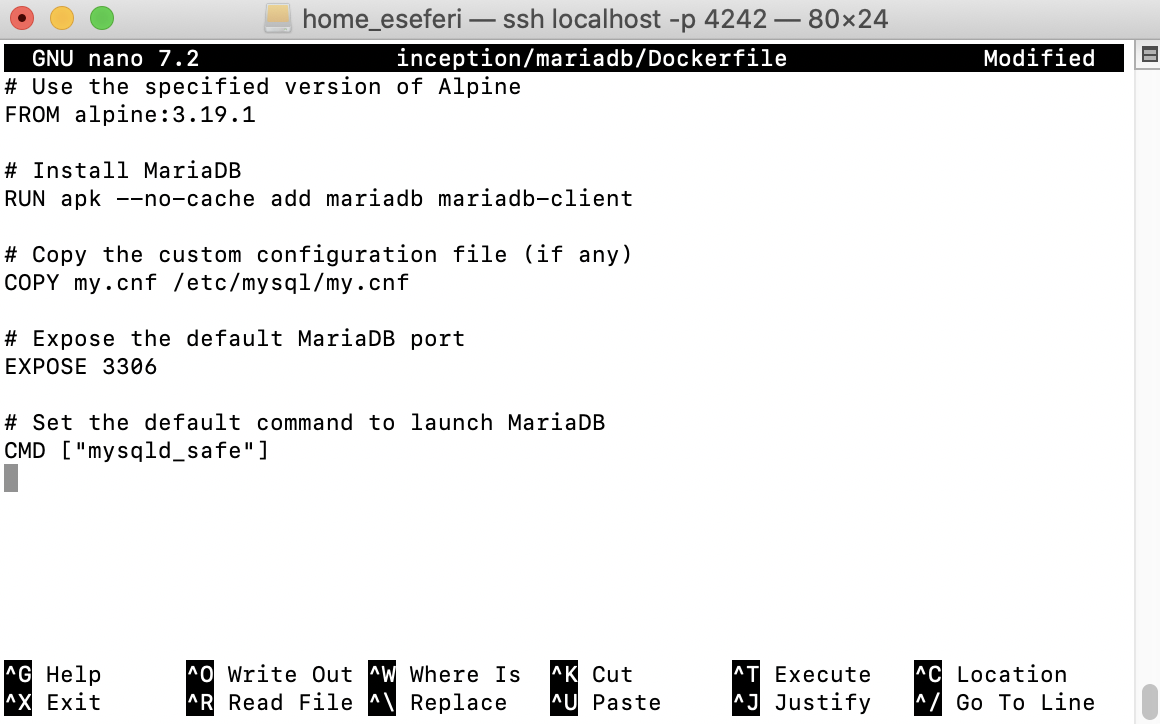
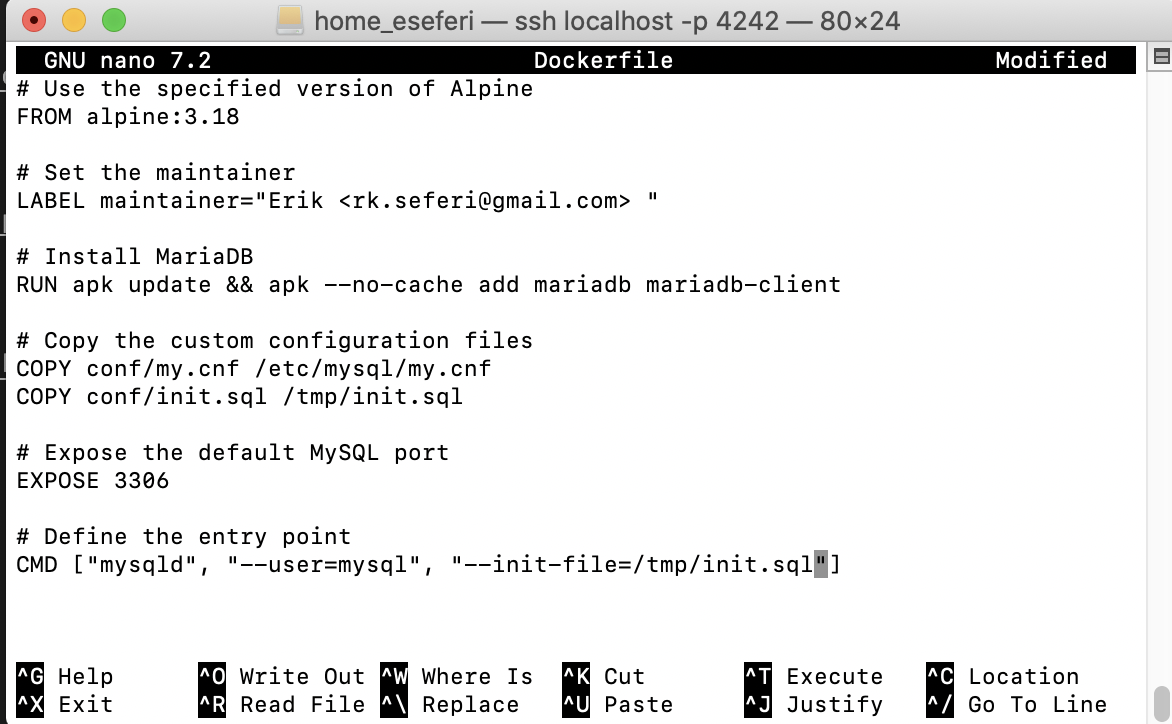
putting some research in the guide

diff --git a/README.md b/README.md
@@ -335,6 +335,46 @@ Now I suggest to you before continuing to the next step to research a little bit
 
 # STEP2: Install Docker and Docker Compose
 
+A little bit of theory now:
+
+### Docker
+
+Docker is a platform as a service (PaaS) tool that utilizes OS-level virtualization to deploy software in containers. These containers are lightweight and allow applications to operate efficiently in diverse environments, isolated from one another.
+
+### Background
+
+Containers encapsulate their own software, libraries, and configuration files, communicating through well-defined channels while sharing the services of a single operating system kernel. This shared kernel reduces resource usage compared to traditional virtual machines.
+
+### Operation
+
+Docker utilizes various interfaces to access Linux kernel virtualization features. It packages applications and dependencies into virtual containers that can run on Linux, Windows, or macOS, enabling flexibility in deployment locations. Resource isolation features like cgroups and kernel namespaces allow containers to run within a single Linux instance.
+
+### Components
+
+The Docker software offering comprises:
+
+1. Software
+Docker daemon (dockerd) manages containers and handles container objects, while the Docker client (docker) provides a command-line interface (CLI) for user interaction.
+
+2. Objects
+Docker objects include images, containers, and services, providing a standardized environment for running applications.
+
+		Docker containers are encapsulated environments for running applications, managed via the Docker API or CLI.
+
+		Docker images are read-only templates used to build containers.
+
+		Docker services enable scaling across multiple Docker daemons, forming a swarm of cooperating daemons.
+
+		Registries: Docker registries store and distribute Docker images, with Docker Hub being the primary public registry. Registries allow for image download ("pull") and upload ("push") operations.
+
+### Tools
+
+1. Docker Compose: Defines and runs multi-container Docker applications using YAML configuration files. It simplifies container creation and startup processes.
+
+2. Docker Swarm: Provides native clustering functionality for Docker containers, turning multiple Docker engines into a single virtual Docker engine.
+
+3. Docker Volume: Facilitates data management for Docker containers, enabling data persistence and sharing between containers.
+
 First update Alpine, if you downloaded and using sudo you can use sudo instead of doas
 
 ![Update and upgrade apk](photos/InstallDocker/upgradeapk.png)
@@ -394,6 +434,149 @@ Naming Docker Images and Services:
 
 Each Docker image must have the same name as its corresponding service. For example, if you have a service named nginx, the Docker image for that service should also be named nginx.
 
+
+Based on project guidelines, it's better to set up MariaDB first before setting up NGINX and the other services. Here's why:
+
+#### Dependency Order
+
+MariaDB is a fundamental component as it serves as the database backend for your WordPress website. Therefore, it makes sense to set up the database first before configuring other services that rely on it.
+
+#### Data Volume
+
+You need to set up volumes for the WordPress database and website files. Since MariaDB manages the database, you should create the volume for the database first to ensure it's properly configured and accessible before configuring the volume for the website files.
+
+#### Configuration Interdependencies
+
+Configuring MariaDB may require specific settings or initializations that could be referenced or utilized by other services like NGINX or WordPress. By setting up MariaDB first, you ensure that these configurations are in place before configuring other services.
+
+Therefore, the suggested order would be:
+
+1. Set up MariaDB.
+2. Set up NGINX.
+3. Set up WordPress and other services (if applicable), ensuring they are configured to interact with MariaDB as needed.
+4. Configure volumes for the database and website files accordingly.
+
+## Some Research
+
+<h3>What is Docker file?</h3>
+<p>
+	The Dockerfile employs DSL (Domain Specific Language) and comprises directives for building a Docker image. It delineates the steps to efficiently craft an image. When developing your application, ensure the Dockerfile's sequence aligns with the Docker daemon's execution, as it processes instructions sequentially, from top to bottom
+</p>
+<h3>What is Docker Image?</h3>
+<p>
+	An artifact representing multiple layers and serving as a lightweight, self-contained executable package is referred to as a Docker image. It encapsulates all necessary components to execute software, encompassing the code, runtime, libraries, environment variables, and configuration files.
+</p>
+<h3>What is Docker Container?</h3>
+<p>
+	A container is a live instance of a Docker image at runtime. It operates as an isolated environment, containing all the dependencies and configurations required for the application it hosts. Containers streamline both development and deployment processes, enhancing efficiency by ensuring the application runs independently from the host environment.
+</p>
+
+### Dockerfile Commands/Instructions
+
+1. **FROM**
+	- Represents the base image(OS), which is the command that is executed first before any other commands.
+	- **Syntax:**
+		```
+		FROM <ImageName>
+		```
+	- **Example:** 
+		The base image will be alpine: 3.18 Operating System.
+		```
+		FROM alpine: 3.18
+		```
+
+2. **COPY**
+	- The COPY command in Dockerfile is utilized to copy files or directories from the host machine into the Docker image during the build process.
+	- **Syntax:**
+		```
+		COPY <Source> <Destination>
+		```
+	- **Example:**
+		Let's say we have a custom configuration file called "nginx.conf" located in the "conf" directory of our project. We want to include this configuration file into our NGINX Docker image:
+		```
+		COPY conf/nginx.conf /etc/nginx/nginx.conf
+		```
+
+3. **ADD**
+	- The ADD command in Dockerfile serves the purpose of downloading files from remote HTTP/HTTPS sources and adding them to the Docker image during the build process.
+	- **Syntax:**
+		```
+		ADD <URL>
+		```
+	- **Example:**
+		Suppose we need to include the WordPress installation package directly from its official website into our Docker image:
+		```
+		ADD https://wordpress.org/latest.tar.gz /var/www/html/wordpress.tar.gz
+		```
+	- In this example:
+		- "https://wordpress.org/latest.tar.gz" is the URL of the latest WordPress installation package.
+		- "/var/www/html/wordpress.tar.gz" is the destination path within the Docker image where we want to store the downloaded WordPress package.
+
+4. **RUN**
+	- The RUN command in Dockerfile enables us to execute shell commands and scripts during the image build process. These commands are executed within the container environment, allowing us to perform various tasks like installing packages, configuring software, or setting up the environment.
+	- **Syntax:**
+		```
+		RUN <Command + ARGS>
+		```
+	- **Example:**
+		Suppose we need to install necessary software dependencies for our Alpine-based MariaDB container:
+		```
+		RUN apk update && apk add --no-cache mariadb mariadb-client
+		```
+	- In this example:
+		- "apk update" updates the package index before installing.
+		- "apk add --no-cache" installs MariaDB server and MariaDB client without caching the index and keeping the image size minimal.
+
+5. **CMD**
+	- The CMD instruction in a Dockerfile defines the default command to be executed when the container starts. It specifies the executable and any arguments that should be passed to it. If a Docker container is started without specifying a command, the command specified by CMD will be executed by default.
+	- **Syntax:**
+		```
+		CMD [command + args]
+		```
+	- **Example:**
+		Let's say we want to set the default command for a container running a custom Python script:
+		```
+		CMD ["python", "app.py"]
+		```
+	- In our project, to specify the default command for starting the MariaDB server:
+		```
+		CMD ["mysqld", "--user=mysql", "--init-file=/tmp/init.sql"]
+		```
+	- This command starts the MariaDB server with the specified options and initializes it with the SQL commands provided in the init.sql file.
+
+6. **ENTRYPOINT**
+	- The ENTRYPOINT instruction in a Dockerfile configures a container to run as an executable. When a Docker container is started, the command or script specified by ENTRYPOINT is executed. Unlike CMD, the command specified by ENTRYPOINT cannot be overridden by specifying a command at runtime.
+	- **Syntax:**
+		```
+		ENTRYPOINT [command + args]
+		```
+	- **Example:**
+		For instance, to configure a container to run a custom script named run.sh:
+		```
+		ENTRYPOINT ["./run.sh"]
+		```
+	- In our project, to define the entrypoint for starting the MariaDB server:
+		```
+		ENTRYPOINT ["mysqld"]
+        ```
+
+7. **MAINTAINER**
+	- The MAINTAINER command in a Dockerfile allows us to specify the author or owner of the Dockerfile.
+
+	- **Syntax:** 
+		```
+		MAINTAINER <AuthorName>
+		```
+  
+	- **Example:** 
+		Setting the author for the image.
+		```
+		MAINTAINER Erik <rk.seferi@gmail.com>
+		```
+
+
+
+
 ## Write the Dockerfile for MariaDB:
 
 Create a file named Dockerfile in a directory called mariadb. This file will contain instructions for building the MariaDB image. Here's a basic example:
@@ -432,12 +615,95 @@ And write inside
 
 ![Write inside dockerfile inside mariadb](photos/InstallDocker/nanoDockerfilemariadb.png)
 
-	FROM alpine:3.18.6: This line specifies the base image for your Docker image. It tells Docker to use the Alpine Linux version 3.18.6 image as the starting point for building your custom image. Alpine Linux is a lightweight Linux distribution, and the version 3.18.6 is specifically chosen in this case.
+	FROM alpine:3.18: This line specifies the base image for your Docker container. In this case, it pulls the Alpine Linux image with version 3.18 from the Docker Hub registry. Alpine Linux is a lightweight Linux distribution, and version 3.18 is the specific version chosen for this Docker image.
 
-	RUN apk --no-cache add mariadb mariadb-client: This line installs the MariaDB server (mariadb) and client (mariadb-client) packages using the apk package manager. The --no-cache flag tells apk not to cache the index locally, which helps to keep the Docker image smaller.
+	LABEL maintainer="Erik <rk.seferi@gmail.com>": This line sets metadata for the Docker image. It adds a label indicating the maintainer of the image, which is typically the person responsible for maintaining and updating the image. In this case, the maintainer is specified as "Erik" with the email address "rk.seferi@gmail.com".
 
-	COPY my.cnf /etc/mysql/my.cnf: If you have a custom configuration file named my.cnf, this line copies it from your host machine into the Docker image at the specified location (/etc/mysql/my.cnf). This allows you to customize the MariaDB configuration within the Docker container.
+	RUN apk update && apk --no-cache add mariadb mariadb-client: This line executes commands during the Docker image build process. It uses the apk package manager, which is specific to Alpine Linux, to update the package repository (apk update) and then install the mariadb and mariadb-client packages without caching (--no-cache). This command installs MariaDB server and client tools into the Docker image.
 
-	EXPOSE 3306: This line exposes port 3306, the default port used by MariaDB, to allow communication with other containers or external services. However, it does not actually publish the port to the host machine. You would need to use the -p option with docker run to publish ports to the host.
+	COPY conf/my.cnf /etc/mysql/my.cnf: This line copies a file from the host machine into the Docker image. It takes the my.cnf file located in the conf directory of your project on the host machine and places it into the /etc/mysql directory within the Docker image. The my.cnf file typically contains custom configurations for MariaDB.
 
-	CMD ["mysqld_safe"]: This line sets the default command that will be executed when a container is started from this image. In this case, it starts the MariaDB server in safe mode (mysqld_safe). You can override this command when running the container if needed.
+	COPY conf/init.sql /tmp/init.sql: Similar to the previous line, this line copies the init.sql file from the host machine into the Docker image. It places the file into the /tmp directory within the Docker image. The init.sql file usually contains SQL statements that will be executed when MariaDB starts up for the first time.
+
+	EXPOSE 3306: This line informs Docker that the container will listen on port 3306 at runtime. However, it doesn't actually publish the port. It's more of a documentation to let users know which ports are intended to be exposed.
+
+	CMD ["mysqld", "--user=mysql", "--init-file=/tmp/init.sql"]: This line specifies the default command to run when the container starts. It starts the MariaDB server (mysqld) with the specified options (--user=mysql for running as the MySQL user and --init-file=/tmp/init.sql to execute the initialization SQL script). This command initializes MariaDB with custom settings from the init.sql file.
+
+	These lines collectively define the Dockerfile for building a Docker image that includes MariaDB server with custom configurations and initialization script, based on Alpine Linux version 3.18.
+
+Lets create the conf directory
+
+	cd mariadb
+	sudo mkdir conf
+
+Edit my.cnf like below
+
+	sudo nano conf/my.cnf
+	
+
+![Edit my.cnf](photos/InstallDocker/MariaDb/nanoConfMy.conf.png)
+
+Let's go through each line:
+1. [client-server]:
+
+	This is a section header in the MySQL/MariaDB configuration file, indicating that the following configurations are relevant to both the MySQL/MariaDB client and server.
+
+socket=/var/lib/mysql/mysql.sock
+
+	This line specifies the location of the Unix socket file that the MySQL/MariaDB client and server use for local connections. The Unix socket allows communication between the client and server processes on the same machine.
+
+port=3306
+
+	This line specifies the port number on which the MySQL/MariaDB server listens for incoming connections. By default, MySQL/MariaDB uses port 3306 for TCP connections.
+
+2. [mysqld]
+
+	This is another section header, indicating that the following configurations are specific to the MySQL/MariaDB server daemon (mysqld).
+
+bind-address=0.0.0.0
+
+	This line specifies the network interface IP address to which the MySQL/MariaDB server should bind. In this case, 0.0.0.0 means the server will listen on all available network interfaces.
+
+skip-networking=false
+
+	This line specifies whether networking support is enabled for the MySQL/MariaDB server. When set to false, it means networking support is enabled, allowing the server to accept remote connections over the network.
+
+datadir=/var/lib/mysql
+
+	This line specifies the directory where MySQL/MariaDB stores its data files, including databases and tables. By default, the data directory is /var/lib/mysql.
+
+3. [mariadb]
+
+	This is a section header specific to MariaDB, indicating that the following configurations are relevant to MariaDB-specific settings.
+
+log_warnings=4
+	This line specifies the level of verbosity for logging warnings in MariaDB. In this case, 4 indicates a high level of verbosity, meaning more detailed warnings will be logged.
+
+log_error=/var/log/mysql/mariadb.err
+	This line specifies the path to the error log file for MariaDB. Any errors encountered by the MariaDB server will be logged to this file located at /var/log/mysql/mariadb.err.
+
+These configurations help define the behavior of the MySQL/MariaDB client and server, including how they communicate, where data is stored, and how logging is handled. They are essential for ensuring the proper functioning and management of the MySQL/MariaDB database server.
+	
+<b><i>Now lets edit conf/init.sql file</i></b>	
+	
+	sudo nano conf/init.sql
+
+Edit the file like below
+
+![Edit init.sql](photos/InstallDocker/MariaDb/nanoInitsql.png)
+
+<p>The init.sql file contains SQL commands that are executed when the MariaDB server container starts up. Let's break down each line:</p>
+
+1. USE mysql;: This line specifies that subsequent SQL commands will be executed in the context of the mysql database. It ensures that the following commands apply to the mysql system database, which stores user accounts, privileges, and other administrative information.
+
+2. CREATE DATABASE IF NOT EXISTS wordpress;: This command creates a new database named wordpress if it doesn't already exist. The IF NOT EXISTS clause ensures that the database is only created if it doesn't already exist.
+
+3. CREATE USER IF NOT EXISTS 'wordpress'@'%' IDENTIFIED BY 'secret';: This command creates a new user named wordpress with the password 'secret' who is allowed to connect from any host ('%'). The IF NOT EXISTS clause ensures that the user is only created if they don't already exist.
+
+4. GRANT ALL PRIVILEGES ON wordpress.* TO 'wordpress'@'%';: This command grants all privileges on the wordpress database to the wordpress user from any host ('%'). This allows the wordpress user to perform any operation on the wordpress database.
+
+5. FLUSH PRIVILEGES;: This command reloads the grant tables, applying any changes made to user privileges immediately. It ensures that the privileges granted to the wordpress user take effect immediately.
+
+6. ALTER USER 'root'@'localhost' IDENTIFIED BY 'wordpress';: This command changes the password for the root user when connecting from localhost to 'wordpress'. This is typically done for security reasons, ensuring that the default root password is not used and is replaced with a more secure password.
+
+<p>Overall, the init.sql file initializes the MariaDB server by creating a database for WordPress, creating a user with appropriate privileges to access that database, and ensuring that the necessary privileges are granted and applied immediately. Additionally, it updates the password for the root user for improved security. </p>
